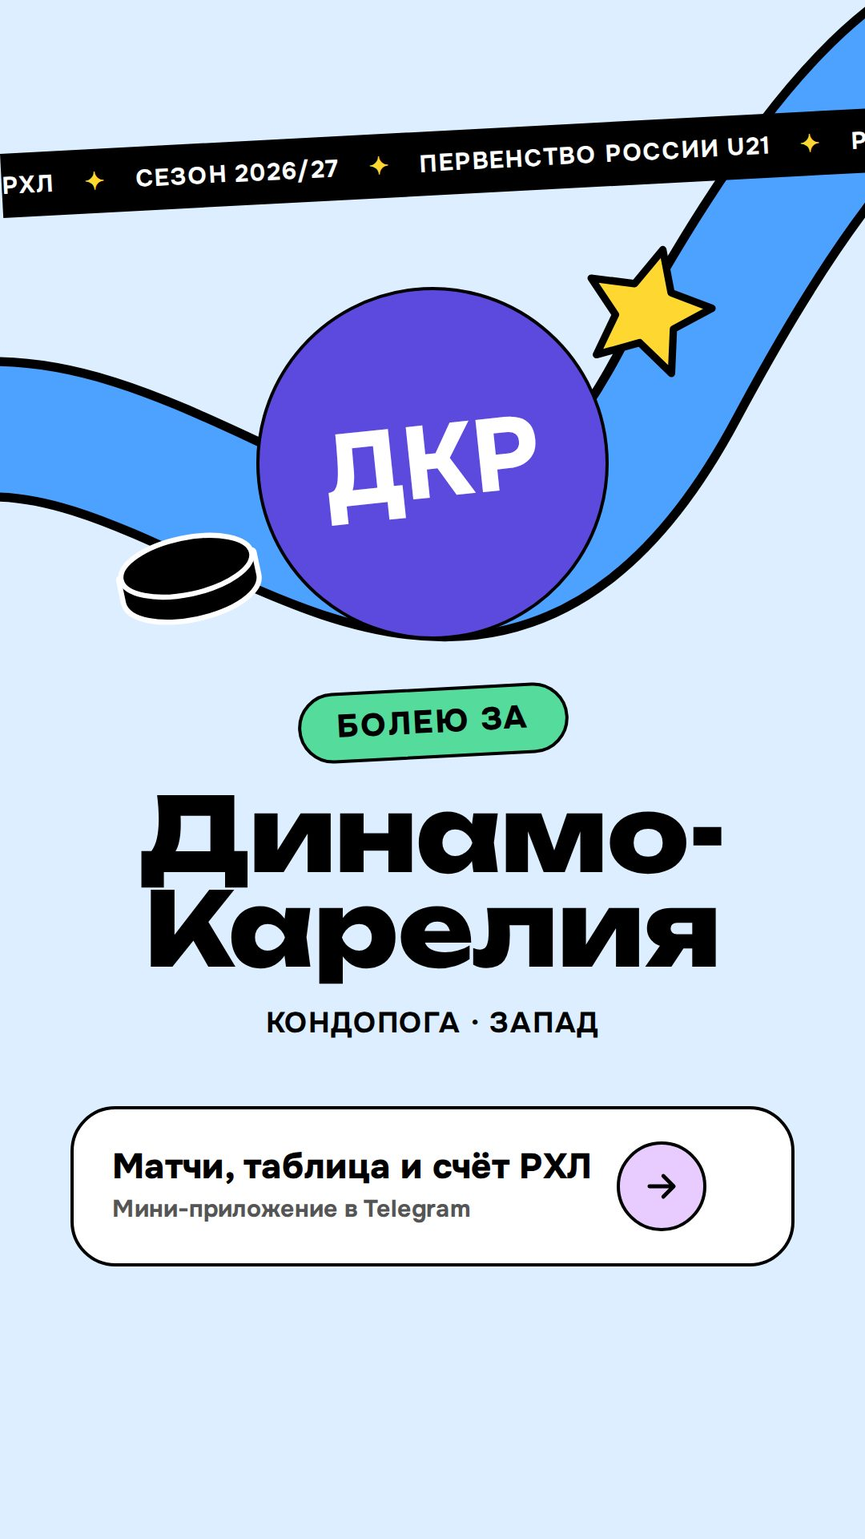
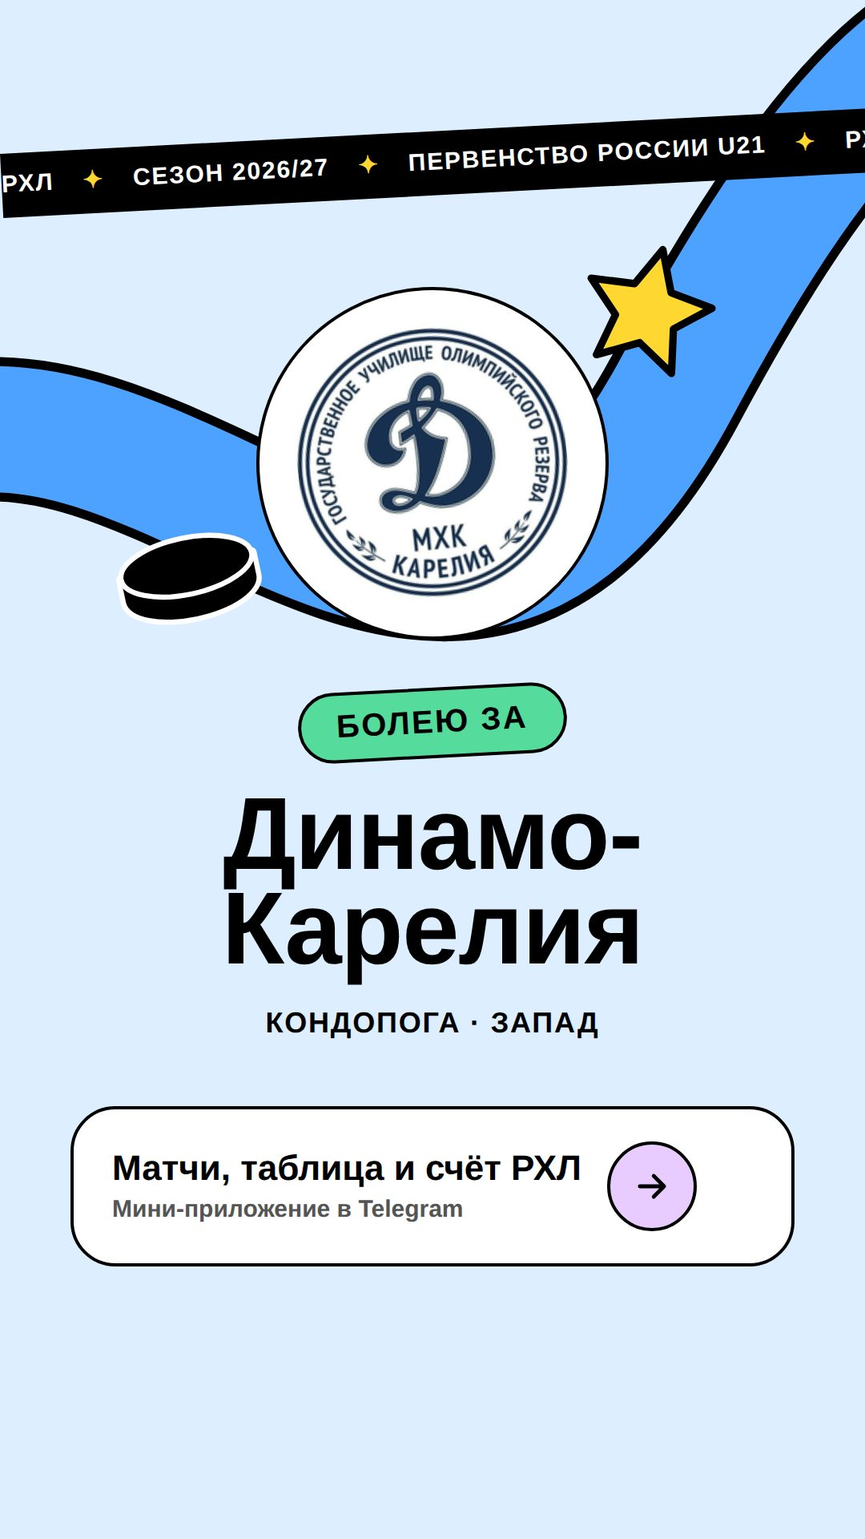
Эмблемы ещё четырёх клубов и план: история встреч, составы
Эмблемы «Ахмат-Гранита», «Динамо-Карелии», «Калужских Ракет» и «Ростова»
взяты из статей Википедии о клубах, приведены к 200×200 как остальные.
Карточки для историй этих клубов перерисованы. У «Витязь-Подольска»,
«Краснодара» и «Красной машины Академии» эмблем в открытом доступе нет.

В плане ARCHITECTURE.md — четыре шага по запросам болельщиков.
ADR-006: история очных встреч в карточке матча из архива календарей
nmhl.fhr.ru. ADR-007: составы и статистика игроков со страниц статистики
клубов на сайте лиги.

Тест: у каждого клуба с полем logo файл эмблемы существует.

Claude-Session: https://claude.ai/code/session_01SSWisuwZSPM1iFzfDhYsMq

diff --git a/tests/test_build.py b/tests/test_build.py
@@ -52,6 +52,12 @@ class TeamNames(unittest.TestCase):
     def test_every_rhockey_id_is_known(self):
         self.assertEqual(len(self.teams.by_rh), 26)
 
+    def test_logo_files_exist(self):
+        webapp = Path(__file__).parent.parent / "webapp"
+        for t in self.teams.all:
+            if "logo" in t:
+                self.assertTrue((webapp / t["logo"]).is_file(), t["logo"])
+
 
 class Calendar(unittest.TestCase):
     teams = b.load_teams()

diff --git a/docs/adr/006-head-to-head.md b/docs/adr/006-head-to-head.md
@@ -1,0 +1,57 @@
+# ADR-006. История очных встреч в карточке матча
+
+Статус: принято, 25.09.2026 — запрос владельца продукта
+
+## Контекст
+
+Болельщик открывает карточку будущего матча, например «Рязань-ВДВ» — «Белгород», и видит
+только дату и город. Главный вопрос перед игрой — «мы фавориты или нет?» — остаётся без ответа.
+Самый понятный ответ в хоккее — история очных встреч: кто сколько выиграл, сколько забил и
+пропустил, чем кончились последние игры.
+
+Что есть в источниках (проверено 25.09.2026):
+
+- На `nmhl.fhr.ru` открыт архив турниров с 12/13. Страница календаря турнира
+  `/calendar/<id>/` отдаёт **все** матчи с датой, командами и счётом, включая «ОТ» и «Б».
+  Один запрос на турнир: 25/26 — 624 матча, 24/25 — 528, 23/24 — 484
+- Протоколы для этого не нужны: хватает строки календаря. Протоколы остаются источником
+  текущего сезона (ADR-001)
+- Часть клубов играла под другими названиями: «Воевода» → «Витязь-Подольск», «Гранит-Чехов»
+  и «Гранит» → «Ахмат-Гранит» (переименования подтверждены статьями Википедии о РХЛ и
+  об «Ахмат-Граните»). Новички из МХЛ и ВХЛ («Динамо-Карелия», «Ростов») в НМХЛ не играли
+- Страница плей-офф 25/26 без фильтра по клубу отдаёт пустую таблицу — у плей-офф календарь
+  нужно брать иначе, это выясняется при реализации
+
+## Решение
+
+1. **`history.py`** — загрузка календарей прошлых сезонов с сайта лиги: регулярный чемпионат и
+   плей-офф, по одному запросу на турнир, с паузой в секунду, как `league.py`. Разбор — тем же
+   мини-DOM из `league.py`
+2. **Глубина — пять прошлых сезонов** (21/22–25/26). Дальше составы полностью сменились, и
+   старые счета о силе команды не говорят. Глубина — параметр, а не константа в коде
+3. **`history.json` в git.** Прошлые сезоны не меняются, файл собирается один раз и
+   пересобирается руками. Команды в нём уже приведены к id из `teams.json`; матчи команд,
+   которых нет в РХЛ-2026/27, отбрасываются
+4. **Прежние названия — поле `former` в `teams.json`.** Отдельно от `aliases`: алиасы — это
+   написания текущего клуба, `former` — его прошлые имена. Вносим только подтверждённые
+   переименования. Неподтверждённые («Хорс Подольск», «Факел») не связываем: лучше «раньше
+   не встречались», чем чужая история
+5. **`webapp/data/h2h.json` — отдельный файл**, собирает `build_data.py`. Для каждой пары
+   команд, которая встречается в календаре 2026/27: победы каждой стороны, забитые и
+   пропущенные, пять последних встреч со счётом. Мини-апп грузит его только при открытии
+   карточки матча, чтобы не утяжелять первый запуск. Встречи текущего сезона добавляются
+   из `results.json` при каждой сборке
+6. **В карточке матча — блок «Очные встречи».** Счёт побед «5 — 2», голы «21:14», пять
+   последних игр строками. Под ним — одна строка вывода, по правилу:
+   - меньше трёх встреч — «Встречались мало, фаворита по истории не назвать»
+   - иначе фаворит тот, у кого больше побед; при равенстве — «История равная»
+   Формулировка — «по истории встреч», а не «фаворит»: прогноз мы не даём
+7. Нет ни одной встречи — блок пишет «В НМХЛ и РХЛ раньше не встречались»
+
+## Последствия
+
+- Карточка будущего матча перестаёт быть пустой: это главный вход в мини-апп из напоминания
+- Появляется второй внешний запрос к сайту лиги, но разовый: прошлые сезоны не меняются
+- Переименование клуба теперь правится в двух местах данных — `aliases` и `former`
+- Сила по таблице текущего сезона (место, форма) в блок не входит: до первых туров её нет.
+  Добавим к выводу, когда сыграют 5 туров

diff --git a/docs/adr/007-rosters-and-player-stats.md b/docs/adr/007-rosters-and-player-stats.md
@@ -1,0 +1,57 @@
+# ADR-007. Составы команд и статистика игроков
+
+Статус: предложено, 25.09.2026 — запрос владельца продукта
+
+## Контекст
+
+В паспорте болельщика сейчас только клуб и три цифры сезона. Болельщик хочет видеть своих:
+кто в составе на сезон, кто сколько забил и отдал. В детско-юношеской лиге болеют родители и
+друзья игроков — для них фамилия в составе важнее таблицы.
+
+Что есть в источниках (проверено 25.09.2026):
+
+- На `nmhl.fhr.ru` у каждого клуба в турнире есть страница `/stat/players/<турнир>/all/<клуб>/`:
+  полевые игроки и вратари, номер, игры, голы, передачи, штраф, у вратарей — пропущенные,
+  процент отражённых, «сухие» игры. Id клуба в турнире берётся из фильтра календаря
+  (`league.parse_club_ids` уже это умеет). `rhl.fhr.ru` на том же движке, но пока закрыт
+- В протоколе каждого матча (ADR-001) уже есть авторы голов и передач с номерами
+- На `r-hockey.ru` есть страница «Состав на текущий сезон», но список игроков рисуется
+  скриптом — без браузера его не достать. Для сверки, не как источник
+
+Вопрос из `ARCHITECTURE.md` «даст ли клуб составы и согласие» снимается частично: состав и
+статистику публикует сама лига, мы их только показываем со ссылкой на источник.
+
+## Решение
+
+1. **Источник — страница статистики клуба на сайте лиги.** Она же и состав: кто сыграл хотя бы
+   один матч, тот в составе. Пока `rhl.fhr.ru` закрыт, составов 2026/27 у нас нет, и экран
+   честно пишет «Состав появится после первого тура». Составы с агрегаторов не показываем
+2. **`league.py --players`** — скачать страницы статистики всех 26 клубов, по одной в секунду.
+   Результат — `players.json`: id турнира → id команды → игроки. Обновляется тем же заданием,
+   что и протоколы, после каждого игрового дня
+3. **В `league.json` — только составы и строка статистики игрока**: номер, фамилия и имя,
+   амплуа, И, Ш, А, О, Штр; у вратарей — И, ПШ, %ОБ, И«0». Больше ничего о человеке не берём:
+   ни даты рождения, ни фото, ни ссылок на соцсети
+4. **Экран «Я»**: под паспортом — «Состав» любимой команды, три группы (вратари, защитники,
+   нападающие; если амплуа нет в источнике — вратари и полевые). Сверху — три лидера команды
+   по очкам. Нажатие на игрока — карточка: номер, строка статистики, голы по матчам из
+   протоколов
+5. **Та же карточка у соперника**: из карточки матча — «Составы» обеих команд
+6. **Удаление по просьбе** (правило 4 `CLAUDE.md`): `hidden_players.json` в git — список id
+   игроков, которых не показываем. Пополняется по обращению игрока, родителей или клуба
+   за один коммит
+
+## Открытые вопросы
+
+- Игрокам РХЛ 16–19 лет. Лига публикует их фамилии сама, но стоит уведомить клубы о том, что
+  мы их показываем, — строка в письме клубу (`docs/research/letter-to-club.md`)
+- Если сайт РХЛ откроется поздно — показывать ли пофамильную статистику, собранную только
+  из протоколов (голы и передачи, без игр и штрафа). Предлагаю да, с пометкой «по протоколам»
+
+## Последствия
+
+- Каждый игровой день — ещё 26 запросов к сайту лиги; при паузе в секунду это полминуты
+- `league.json` вырастет примерно на 60 КБ (26 × ~30 игроков). Если первый запуск заметно
+  замедлится — составы уедут в отдельный файл по образцу `h2h.json` (ADR-006)
+- Фэнтези и голосование «лучший игрок матча» из `ARCHITECTURE.md` становятся возможны после
+  этого шага

diff --git a/docs/ARCHITECTURE.md b/docs/ARCHITECTURE.md
@@ -216,6 +216,19 @@ flowchart LR
 
 **24.09.2026, разворот.** Строим под всю лигу и основным интерфейсом делаем мини-апп (ADR-002, ADR-003). Сделано: справочник 26 команд, календарь всей лиги (временно с r-hockey, помечен как предварительный), таблица по конференциям, мини-апп на GitHub Pages с экранами «Главная», «Календарь», «Таблица», «Команда» и карточкой матча. Дальше: подписки бота на любую команду, переезд календаря на `rhl.fhr.ru`, источник живого счёта.
 
+**25.09.2026, запросы владельца продукта.** Три вещи, которые болельщик замечает первыми.
+Идут по порядку, каждая — отдельный PR:
+
+| Шаг | Что делаем | Решение | Статус |
+| --- | --- | --- | --- |
+| 1. Эмблемы всех клубов | Эмблемы 26 клубов вместо стикеров с аббревиатурой | — | 23 из 26. Добавлены «Ахмат-Гранит», «Динамо-Карелия», «Калужские Ракеты», «Ростов» (Википедия). Нет у «Витязь-Подольска», «Краснодара», «Красной машины Академии»: в открытом доступе их эмблем не нашлось — просить у пресс-служб или ждать `rhl.fhr.ru` |
+| 2. История очных встреч | В карточке матча: победы, голы, пять последних игр, кто сильнее по истории | ADR-006 | в работе |
+| 3. Составы на сезон | В «Я» под паспортом — состав любимой команды, лидеры, карточка игрока; составы соперников из карточки матча | ADR-007 | ждёт `rhl.fhr.ru`: на нём составы 2026/27 |
+| 4. Статистика игроков по ходу сезона | Строка статистики каждого игрока обновляется после игрового дня, лидеры команды на «Главной» | ADR-007 | после шага 3 |
+
+Этап 5 из таблицы выше («Команда и составы») этим закрывается без согласия клуба: состав и
+статистику публикует лига, мы только показываем. Фото игроков по-прежнему не берём.
+
 Чего в плане сознательно нет: видео, билетов, фантаси и мобильного приложения. Это три разных бизнеса сверх того, что мы строим.
 
 ## Чек-ин на матче

diff --git a/CLAUDE.md b/CLAUDE.md
@@ -32,7 +32,7 @@ https://claude.ai/code/artifact/b73460ae-abd0-4c96-9670-c62615e1ffa5
 | `build_data.py` | Собирает `webapp/data/league.json`: команды, матчи, результаты, таблица |
 | `webapp/` | Мини-апп: `index.html`, `style.css`, `app.js`, без сборки. Публикуется на GitHub Pages |
 | `webapp/brand/` | Иконка для экрана загрузки Telegram и фавиконки (`icon.svg`, `icon-512.png`) |
-| `webapp/logos/` | Эмблемы клубов, путь — поле `logo` в `teams.json` |
+| `webapp/logos/` | Эмблемы клубов 200×200, путь — поле `logo` в `teams.json`. Нет у трёх: см. план в `ARCHITECTURE.md` |
 | `webapp/story.html`, `webapp/stories/` | Карточки клубов для Telegram Stories и их готовые картинки (ADR-004) |
 | `tools/render_stories.js` | Перерисовать `webapp/stories/` (Playwright, запускается руками) |
 | `stickers/` | Стикеры бота 512×512 и эмодзи `emoji/` 100×100, WEBP; исходник — `stickers.html` (ADR-005) |
